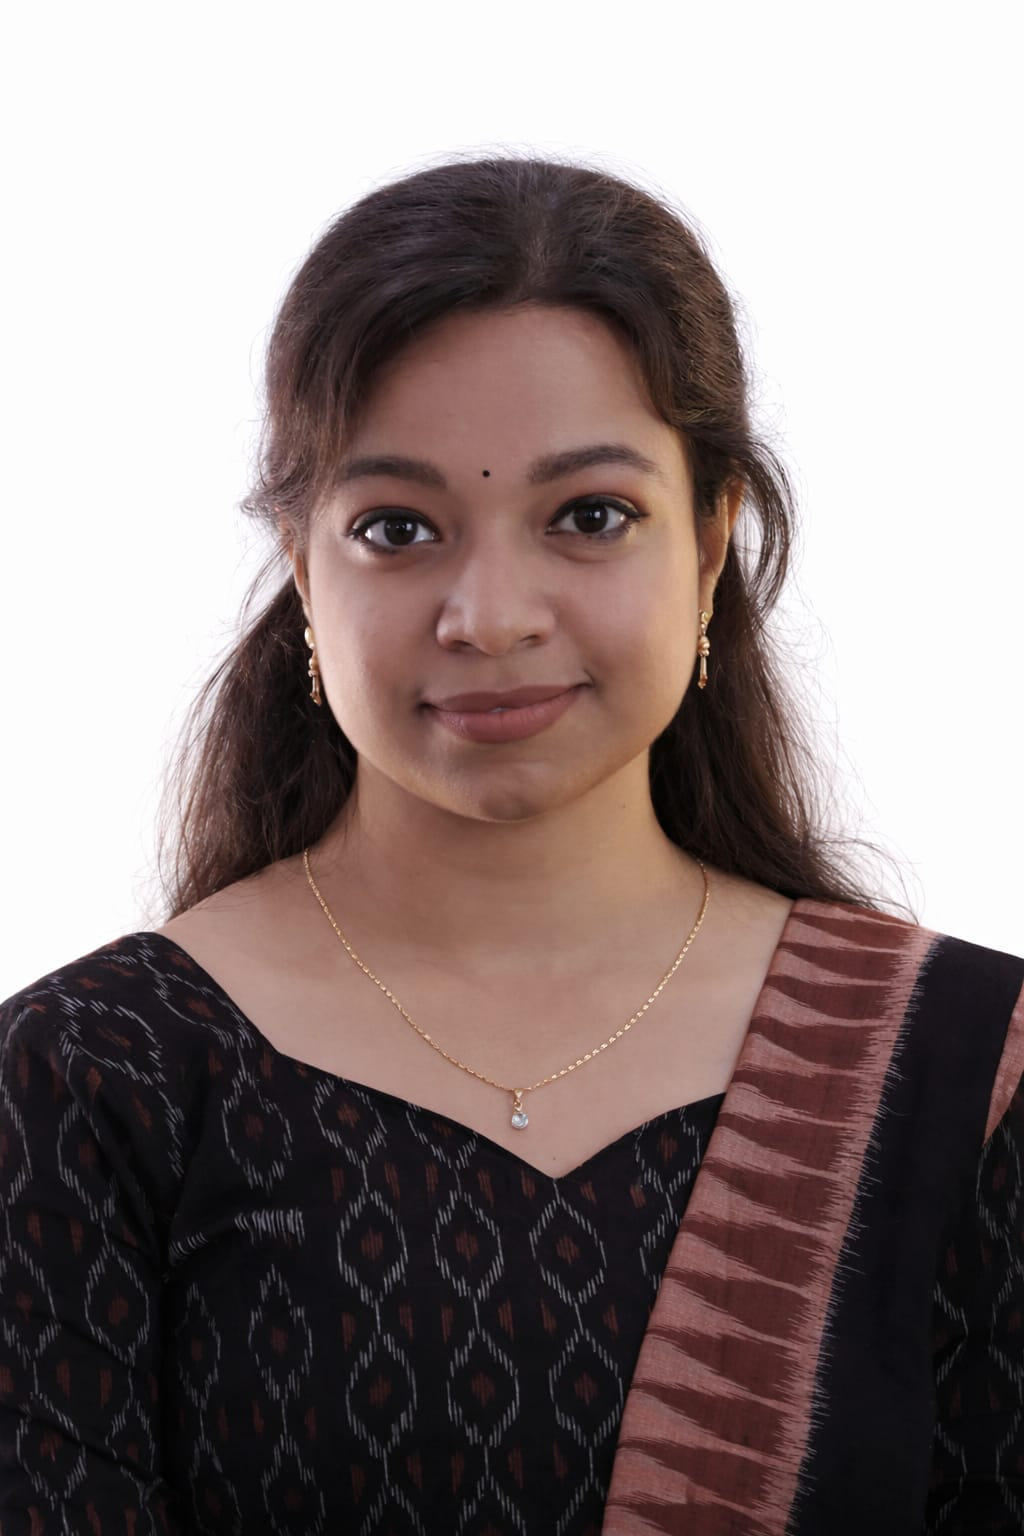
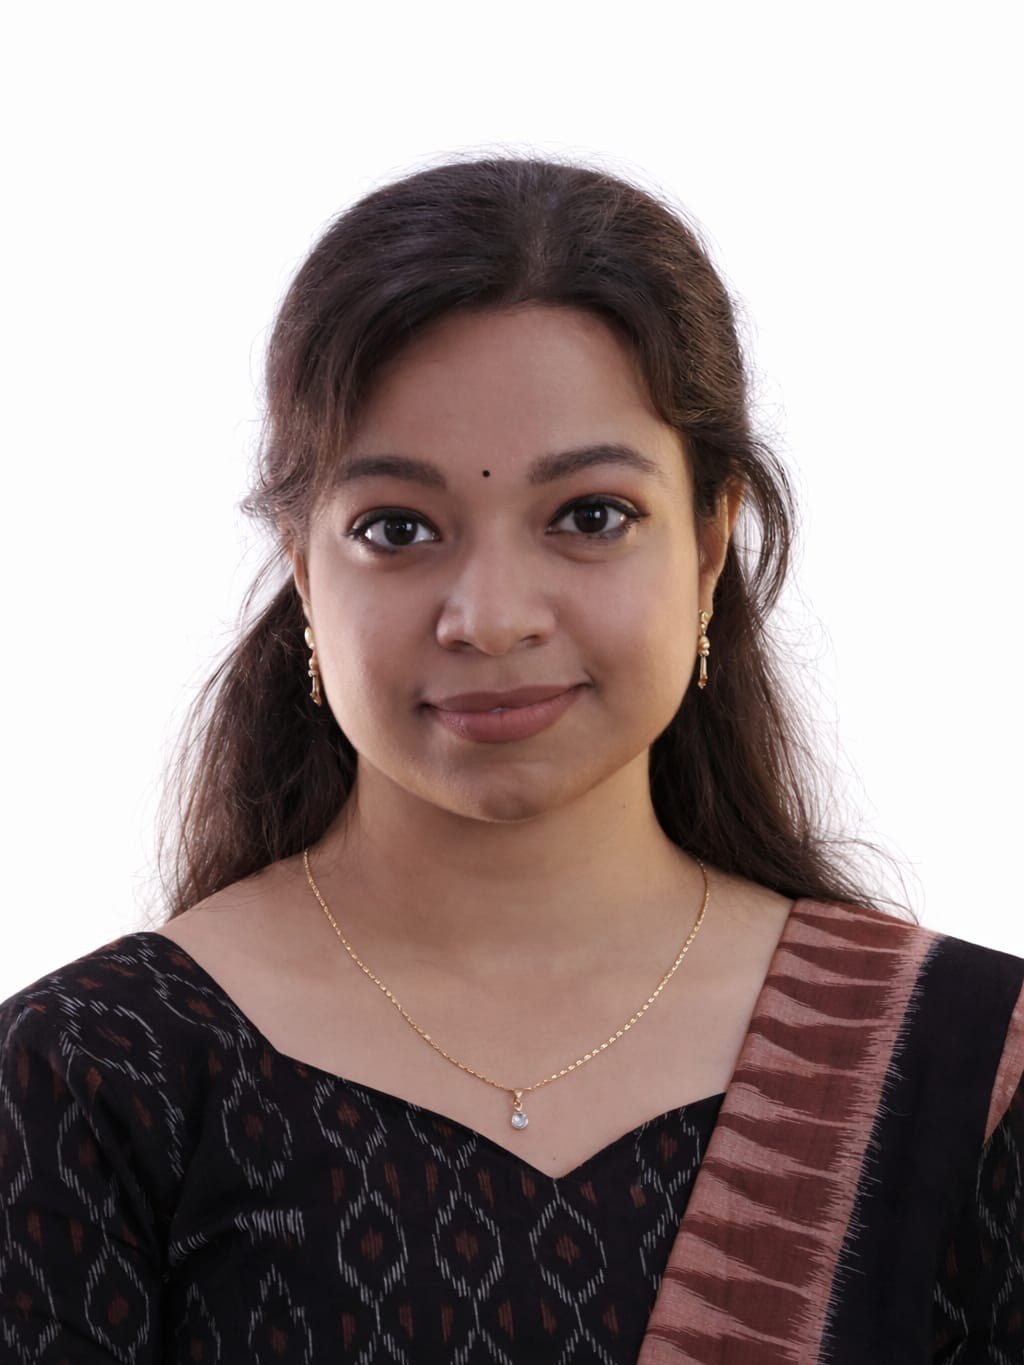
photo change

diff --git a/src/data/leaderships.js b/src/data/leaderships.js
@@ -153,7 +153,7 @@ export const leadershipData = {
     {
       name: "Mr. Ashish Prusty",
       title: "Co-coordinator (B.Tech)",
-      image: "/BTech-Stu-CoCoordinator-Mr-Ashish-Prusty.webp",
+      image: "/BTech-Stu-CoCoordinator-Mr-Ashish-Prusty.jpeg",
     },
     {
       name: "Mr. Ayush Mishra",
